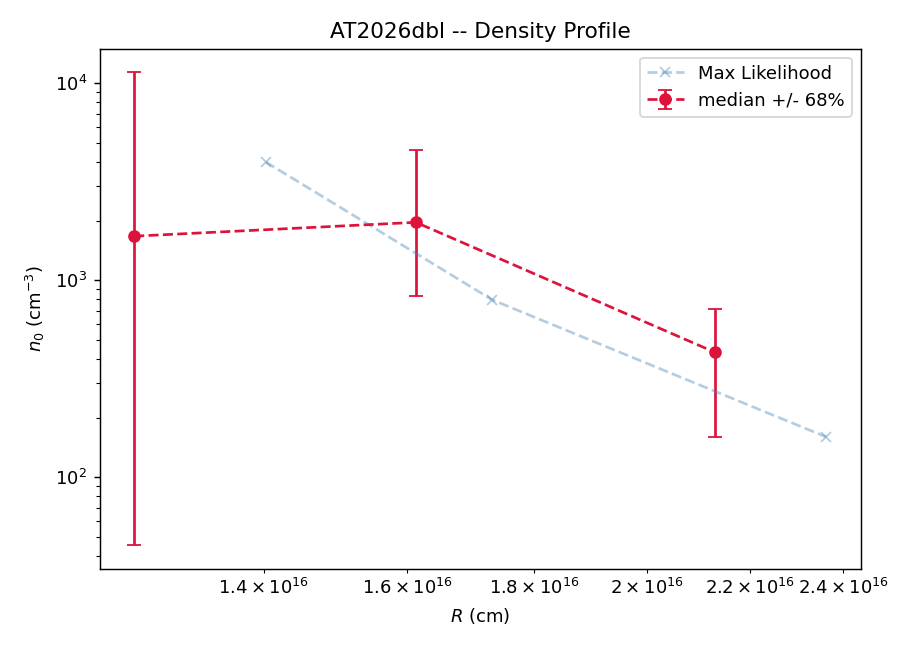
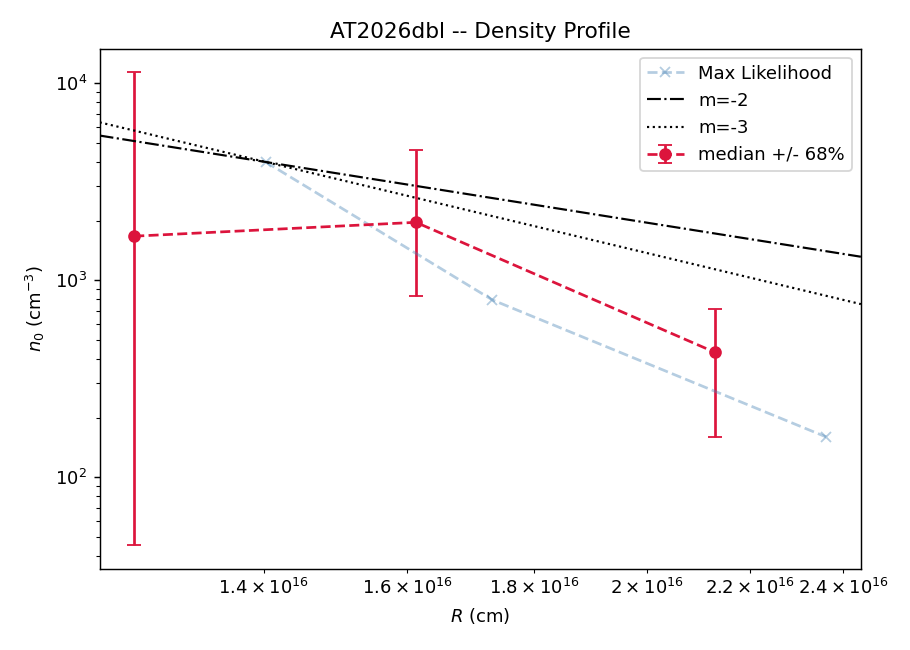
every plot for every run is complete. Check and organize!

diff --git a/runSampler.py b/runSampler.py
@@ -332,6 +332,50 @@ def natural_xy_limits(nu_grid, curves, freq_data=None, flux_data=None,
     return xlim, ylim
 
 
+def parse_config_txt_fixed(path):
+    """Parse the 'Fixed (non-fit) parameters:' section of a saved
+    *_config.txt back into a {name: float} dict, so callers can check for
+    an actual mismatch against currently-passed FIXED_PARAMS/CLI overrides
+    rather than just printing a generic 'go check this yourself' note."""
+    fixed = {}
+    in_section = False
+    with open(path) as fh:
+        for line in fh:
+            stripped = line.strip()
+            if stripped == "Fixed (non-fit) parameters:":
+                in_section = True
+                continue
+            if in_section:
+                if not stripped or stripped.startswith(("therm_el", "pl_el")):
+                    break
+                if "=" in stripped:
+                    k, v = stripped.split("=", 1)
+                    try:
+                        fixed[k.strip()] = float(v.strip())
+                    except ValueError:
+                        pass
+    return fixed
+
+
+def check_fixed_params_match(config_path, current_fixed, tol=1e-8):
+    """Compare a saved run's actual fixed params (from its *_config.txt)
+    against what's currently passed in. Returns a list of human-readable
+    mismatch strings (empty if everything matches or the file is missing/
+    unparseable, since in that case there's nothing to compare against)."""
+    if not os.path.exists(config_path):
+        return None  # can't verify -- caller should say so explicitly
+    try:
+        saved = parse_config_txt_fixed(config_path)
+    except Exception:
+        return None
+    mismatches = []
+    for k, saved_v in saved.items():
+        cur_v = current_fixed.get(k)
+        if cur_v is None or abs(cur_v - saved_v) > tol * max(1.0, abs(saved_v)):
+            mismatches.append(f"{k}: run used {saved_v}, currently passing {cur_v}")
+    return mismatches
+
+
 def save_run_config_txt(plots_dir, tag, fixed, priors, therm_el, pl_el,
                         free_labels=None):
     free_keys = set()
@@ -1053,13 +1097,10 @@ def make_sed_collage(cfg, fixed):
                               constrained_layout=True)
     ax_flat = np.atleast_1d(axes).reshape(-1)
 
-    print(f"    NOTE: SED curves are reconstructed using CURRENT FIXED_PARAMS "
-          f"for whatever wasn't free in each epoch's fit -- compare against "
-          f"that epoch's *_config.txt if unsure it matches.")
-
     for k, f in enumerate(files):
         row = pd.read_csv(f).iloc[0]
         epoch_idx = int(re.search(r"ep(\d+)_summary", f).group(1))
+        tag = f"{source}_fittedR_ep{epoch_idx}"
         ep = get_epoch_data(source, epoch_idx)
         # auto-discover which params were actually free for THIS epoch's
         # run, straight from its saved summary columns -- more robust than
@@ -1067,6 +1108,14 @@ def make_sed_collage(cfg, fixed):
         best_cols = [c for c in row.index if c.endswith("_best")]
         free_labels = [c[:-len("_best")] for c in best_cols]
         theta_best = np.array([row[c] for c in best_cols])
+
+        config_path = os.path.join(plots_rundir, tag, f"{tag}_config.txt")
+        mismatches = check_fixed_params_match(config_path, fixed)
+        if mismatches is None:
+            print(f"    {tag}: no saved config found to verify against -- "
+                  f"can't confirm FIXED_PARAMS matches what this epoch actually used.")
+        elif mismatches:
+            print(f"    {tag}: MISMATCH vs saved config -- " + "; ".join(mismatches))
 
         freq_data, flux_data = ep["freq"], ep["flux"]
         log_flo, log_fhi = np.log10(freq_data.min()), np.log10(freq_data.max())
@@ -1365,21 +1414,27 @@ def replot_fitted_R(source, epoch_idx, cfg, fixed):
     labels = [c[:-len("_best")] for c in summary_row.index if c.endswith("_best")]
 
     old_config = os.path.join(plots_dir, f"{tag}_config.txt")
-    if os.path.exists(old_config):
-        print(f"    NOTE: {old_config} exists from the original run -- "
-              f"compare it to current FIXED_PARAMS before trusting the SED panel.")
+    mismatches = check_fixed_params_match(old_config, fixed)
+    if mismatches is None:
+        print(f"    {tag}: no saved config found to verify against -- using "
+              f"CURRENT FIXED_PARAMS for whatever wasn't free (free params "
+              f"recovered from this run's own summary.csv: {labels})")
+        write_config = True
+    elif mismatches:
+        print(f"    {tag}: MISMATCH vs saved config -- " + "; ".join(mismatches))
+        print(f"    NOT overwriting the saved config.txt (it's still correct); "
+              f"the SED panel below uses your CURRENT mismatched values -- "
+              f"fix the override and rerun to get a correct SED.")
+        write_config = False
     else:
-        print(f"    NOTE: no saved config for {tag} (pre-dates that feature) -- "
-              f"using CURRENT FIXED_PARAMS to draw the SED for whatever "
-              f"wasn't free (free params themselves were recovered from "
-              f"this run's own summary.csv: {labels}); verify FIXED_PARAMS "
-              f"matches what was actually used for this run.")
+        write_config = True
 
     backend = HDFBackend(backend_path)
     ep = get_epoch_data(source, epoch_idx)
 
-    save_run_config_txt(plots_dir, tag, fixed, cfg["priors_fitted_R"],
-                        cfg["therm_el"], cfg["pl_el"], free_labels=labels)
+    if write_config:
+        save_run_config_txt(plots_dir, tag, fixed, cfg["priors_fitted_R"],
+                            cfg["therm_el"], cfg["pl_el"], free_labels=labels)
     flat, flat_lp, _ = save_chain_outputs(data_dir, plots_dir, tag, title_str,
                                           backend, labels, T=ep["T"])
     plot_sed_fitted_R(plots_dir, tag, title_str, ep, flat, flat_lp, fixed,
@@ -1400,19 +1455,26 @@ def replot_dynamical(source, cfg, fixed):
     os.makedirs(plots_dir, exist_ok=True)
 
     old_config = os.path.join(plots_dir, f"{tag}_config.txt")
-    if os.path.exists(old_config):
-        print(f"    NOTE: {old_config} exists from the original run -- "
-              f"compare it to current FIXED_PARAMS before trusting the SED panels.")
+    mismatches = check_fixed_params_match(old_config, fixed)
+    if mismatches is None:
+        print(f"    {tag}: no saved config found to verify against -- "
+              f"using CURRENT FIXED_PARAMS/priors to draw the SEDs.")
+        write_config = True
+    elif mismatches:
+        print(f"    {tag}: MISMATCH vs saved config -- " + "; ".join(mismatches))
+        print(f"    NOT overwriting the saved config.txt (it's still correct); "
+              f"the SED panels below use your CURRENT mismatched values -- "
+              f"fix the override and rerun to get correct SEDs.")
+        write_config = False
     else:
-        print(f"    NOTE: no saved config for {tag} (pre-dates that feature) -- "
-              f"using CURRENT FIXED_PARAMS/priors to draw the SEDs; verify "
-              f"these match what was actually used for this run.")
+        write_config = True
 
     backend = HDFBackend(backend_path)
     epochs = get_all_epochs(source)
 
-    save_run_config_txt(plots_dir, tag, fixed, PRIORS_DYNAMICAL,
-                        cfg["therm_el"], cfg["pl_el"])
+    if write_config:
+        save_run_config_txt(plots_dir, tag, fixed, PRIORS_DYNAMICAL,
+                            cfg["therm_el"], cfg["pl_el"])
     flat, flat_lp, _ = save_chain_outputs(data_dir, plots_dir, tag, title_str,
                                           backend, PARAM_LABELS_DYNAMICAL)
     plot_sed_dynamical(plots_dir, tag, title_str, epochs, flat, flat_lp, fixed,
@@ -1589,12 +1651,22 @@ if __name__ == "__main__":
 
 # =====================================================================
 # CHEAT SHEET -- every command below is safe to copy/paste. Swap
-# --source wpp <-> dbl and --dir to match whatever you actually used.
+# --source wpp <-> dbl to match. --dir is a shared per-CONFIG label, not
+# per-source: run2.slurm/run3.slurm/etc. all write BOTH sources under the
+# same --dir (e.g. everything from run2.slurm lands under .../run2/,
+# distinguished by the source name already baked into each file's own
+# name, like wpp_fittedR_ep1_chain.h5 vs dbl_fittedR_ep1_chain.h5). So use
+# --dir run2 (not run2_wpp) for wpp AND for dbl below.
 # Nothing below this line executes; it's here so you don't have to
 # remember the flags.
 # =====================================================================
 #
 # --- 0. ALWAYS DO THIS FIRST for any new config before a real run ---
+# NOTE: the printed estimate is SERIAL-equivalent (one likelihood eval,
+# no multiprocessing) x nwalkers x nsamples -- your actual wall-clock time
+# will be well under this since the pool evaluates all nwalkers each step
+# in parallel. Useful for comparing configs against each other, not as a
+# literal ETA.
 # python runSampler.py --time_only --mode fitted_R --source wpp --epoch 1 \
 #     --nwalkers 24 --nsamples 1e5
 # python runSampler.py --time_only --mode dynamical --source wpp \
@@ -1603,7 +1675,12 @@ if __name__ == "__main__":
 # --- 1. RUN A FIT ---
 # # single epoch, fitted_R (independent per-epoch fit: a, log10R, BG, log10n0)
 # python runSampler.py --mode fitted_R --source wpp --epoch 3 \
-#     --nwalkers 24 --nsamples 1e5 --ncores 12 --dir run1_wpp
+#     --nwalkers 24 --nsamples 1e5 --ncores 12 --dir run2
+#
+# # every epoch of a source in one local call (fitted_R only; on SLURM,
+# # submit one array task per epoch instead -- see run2.slurm/run3.slurm/...)
+# python runSampler.py --mode fitted_R --source wpp --epoch all \
+#     --nwalkers 24 --nsamples 1e5 --ncores 12 --dir run2
 #
 # --- 1b. DIFFERENT FIXED-PARAM / FREE-PARAM CONFIGS (run2, run3, ...) --
 #     without editing FIXED_PARAMS/FREE_PARAMS_FITTED_R in the file ---
@@ -1627,46 +1704,42 @@ if __name__ == "__main__":
 #     --nwalkers 24 --nsamples 1e5 --ncores 12 --dir run5 \
 #     --free_params a,log10R,BG,log10n0,log10eps_B --eps_e 0.01
 #
-# (repeat all of the above with --source dbl and its own --dir too)
-#
-# # every epoch of a source in one local call (fitted_R only; on SLURM,
-# # submit one array task per epoch instead -- see run_fitted_R.slurm)
-# python runSampler.py --mode fitted_R --source wpp --epoch all \
-#     --nwalkers 24 --nsamples 1e5 --ncores 12 --dir run1_wpp
+# (repeat all of the above with --source dbl, SAME --dir as the wpp run
+# for that config -- e.g. --source dbl --dir run2, not run2_dbl)
 #
 # # dynamical (joint fit across ALL epochs of one source at once -- no
 # # --epoch needed/used; much slower than fitted_R, time_only it first)
 # python runSampler.py --mode dynamical --source wpp \
-#     --nwalkers 24 --nsamples 1e5 --ncores 12 --dir run1_wpp
+#     --nwalkers 24 --nsamples 1e5 --ncores 12 --dir run2
 #
 # # resume a run that got cut off (same nwalkers/dir as the original)
 # python runSampler.py --mode fitted_R --source wpp --epoch 3 \
-#     --nwalkers 24 --nsamples 1e5 --ncores 12 --dir run1_wpp --resume
+#     --nwalkers 24 --nsamples 1e5 --ncores 12 --dir run2 --resume
 #
 # --- 2. REPLOT (regenerate corner/trace/SED from an existing chain --
 #     no resampling; use after tweaking plot formatting, not physics) ---
 # python runSampler.py --replot --mode fitted_R --source wpp --epoch all \
-#     --dir run1_wpp
-# python runSampler.py --replot --mode dynamical --source wpp --dir run1_wpp
+#     --dir run2
+# python runSampler.py --replot --mode dynamical --source wpp --dir run2
 #
 # --- 3. PARAMETER EVOLUTION + DENSITY PROFILE (needs all epochs of a
 #     source already fit in fitted_R mode; both plots come from one call) ---
-# python runSampler.py --make_evolution_plot --source wpp --dir run1_wpp
-# python runSampler.py --make_evolution_plot --source dbl --dir run1_dbl
+# python runSampler.py --make_evolution_plot --source wpp --dir run2
+# python runSampler.py --make_evolution_plot --source dbl --dir run2
 #
 # --- 4. SED COLLAGE (grid of per-epoch data + Max Likelihood fit only;
 #     needs all epochs of a source already fit in fitted_R mode) ---
-# python runSampler.py --make_sed_collage --source wpp --dir run1_wpp
-# python runSampler.py --make_sed_collage --source dbl --dir run1_dbl
+# python runSampler.py --make_sed_collage --source wpp --dir run2
+# python runSampler.py --make_sed_collage --source dbl --dir run2
 #
 # --- 5. KNOB/DIALS PLOT (SED sensitivity to each of the 11 params;
 #     doesn't need any prior fit to exist) ---
 # # centered on prior midpoints
-# python runSampler.py --make_knob_plot --knob_source wpp --dir run1_wpp
+# python runSampler.py --make_knob_plot --knob_source wpp --dir run2
 #
 # # centered on a real epoch's actual best fit (also uses that epoch's T)
-# python runSampler.py --make_knob_plot --knob_source wpp --dir run1_wpp \
-#     --knob_from_summary mcmc_output/data/run1_wpp/wpp_fittedR_ep3/wpp_fittedR_ep3_summary.csv
+# python runSampler.py --make_knob_plot --knob_source wpp --dir run2 \
+#     --knob_from_summary mcmc_output/data/run2/wpp_fittedR_ep3/wpp_fittedR_ep3_summary.csv
 #
 # --- WHERE THINGS LAND ---
 # mcmc_output/